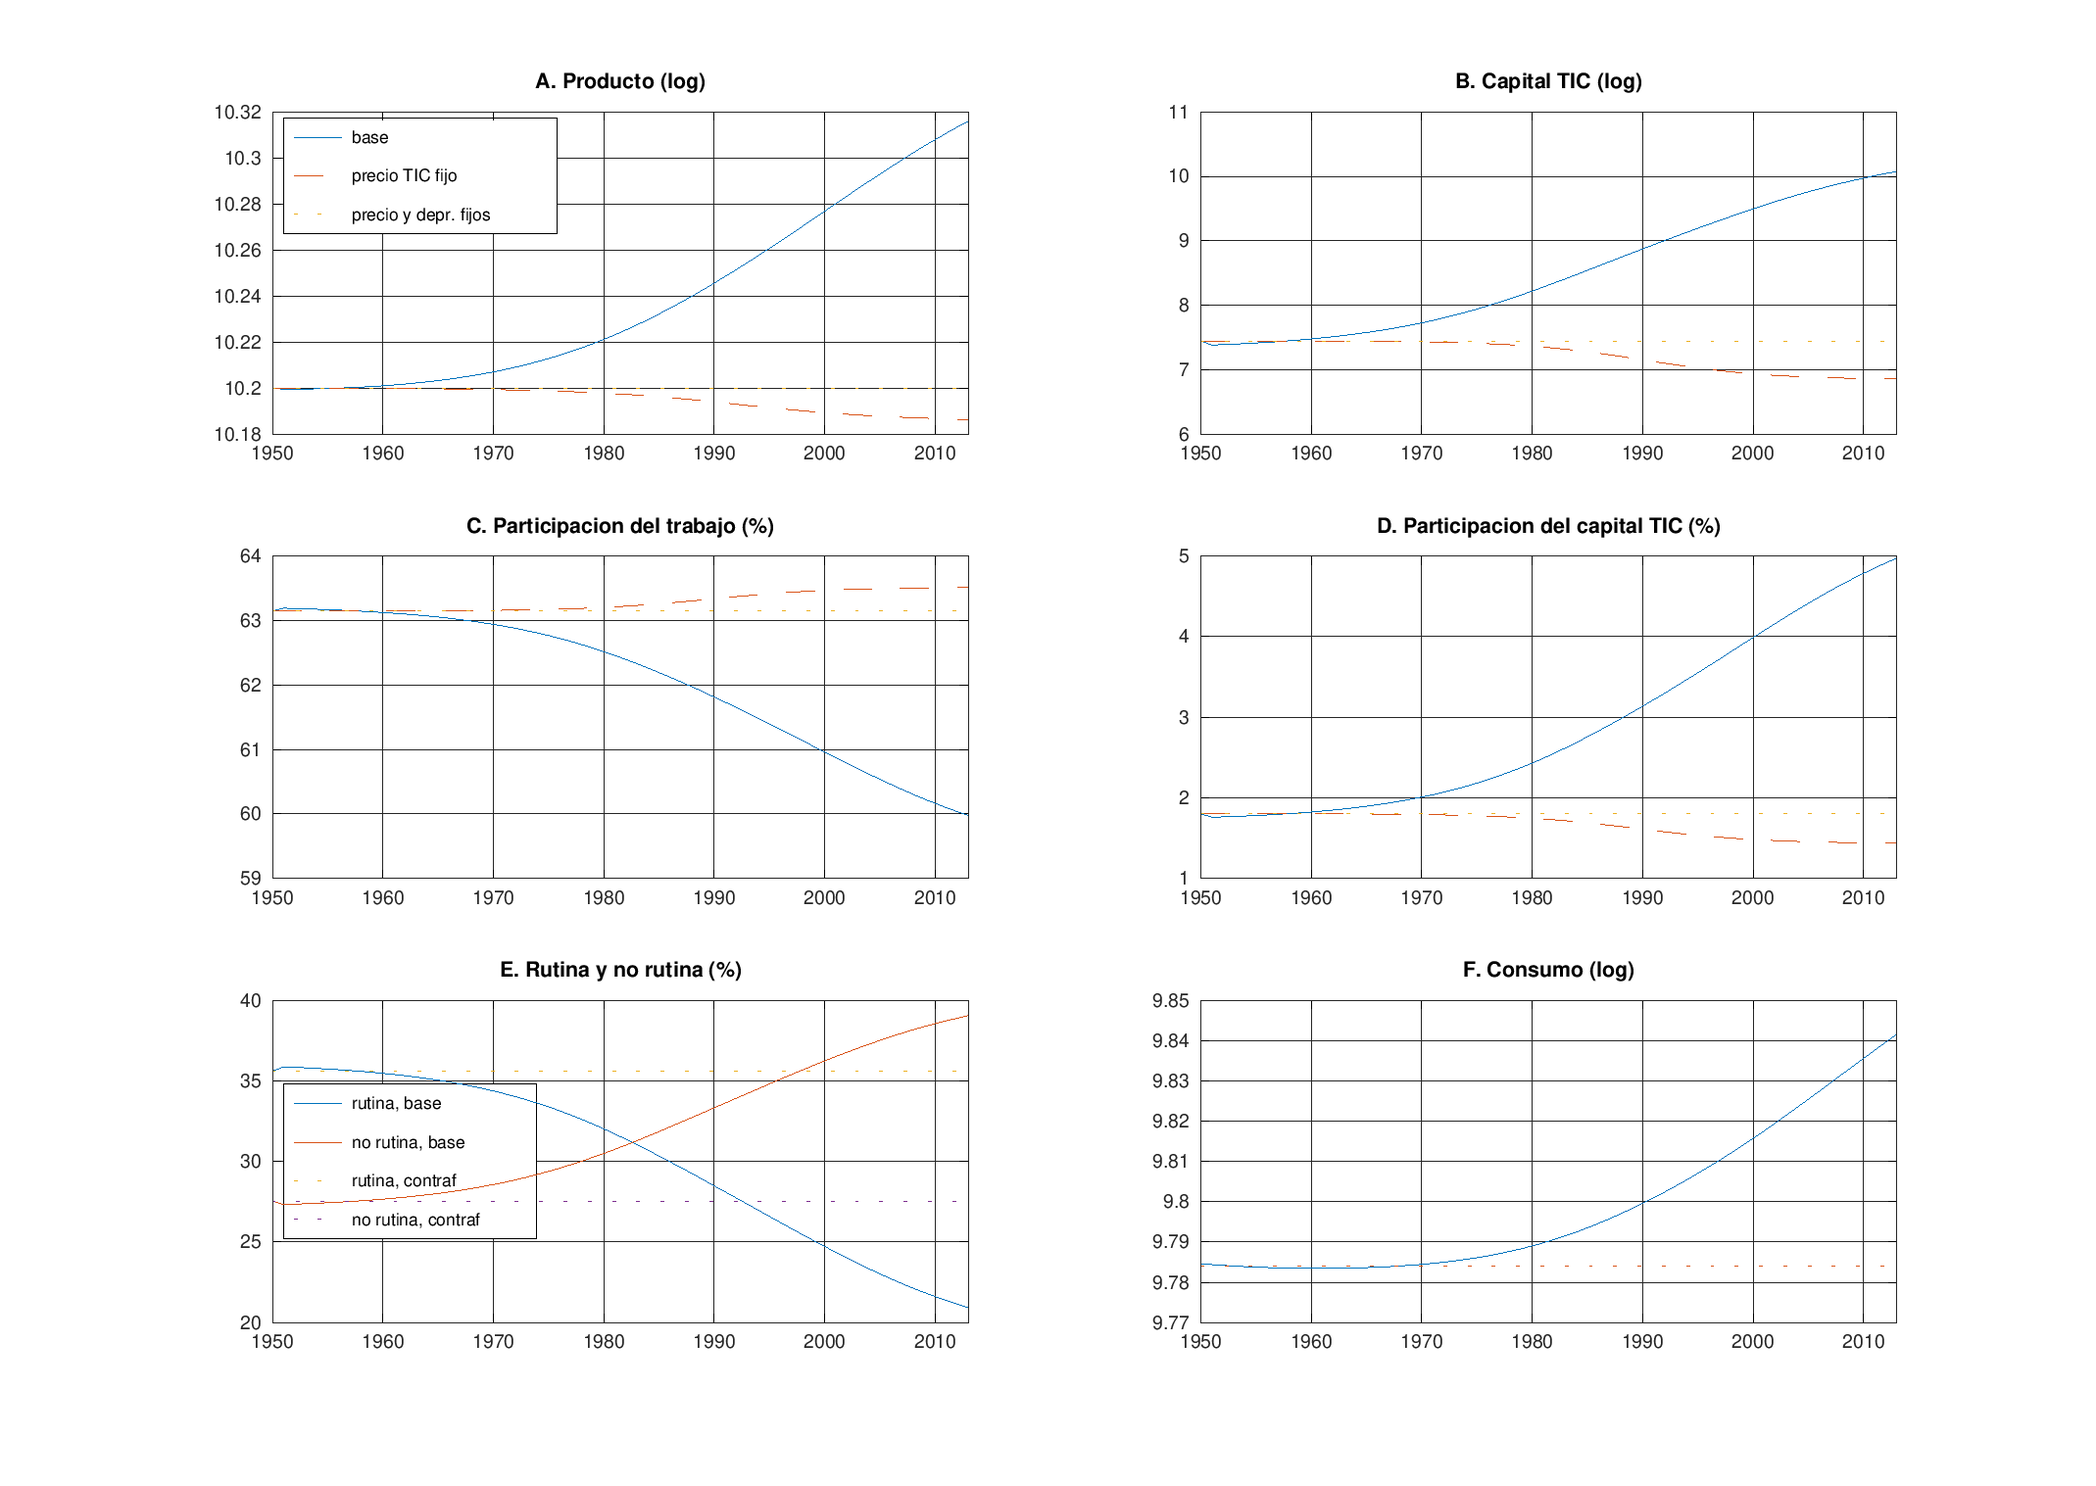
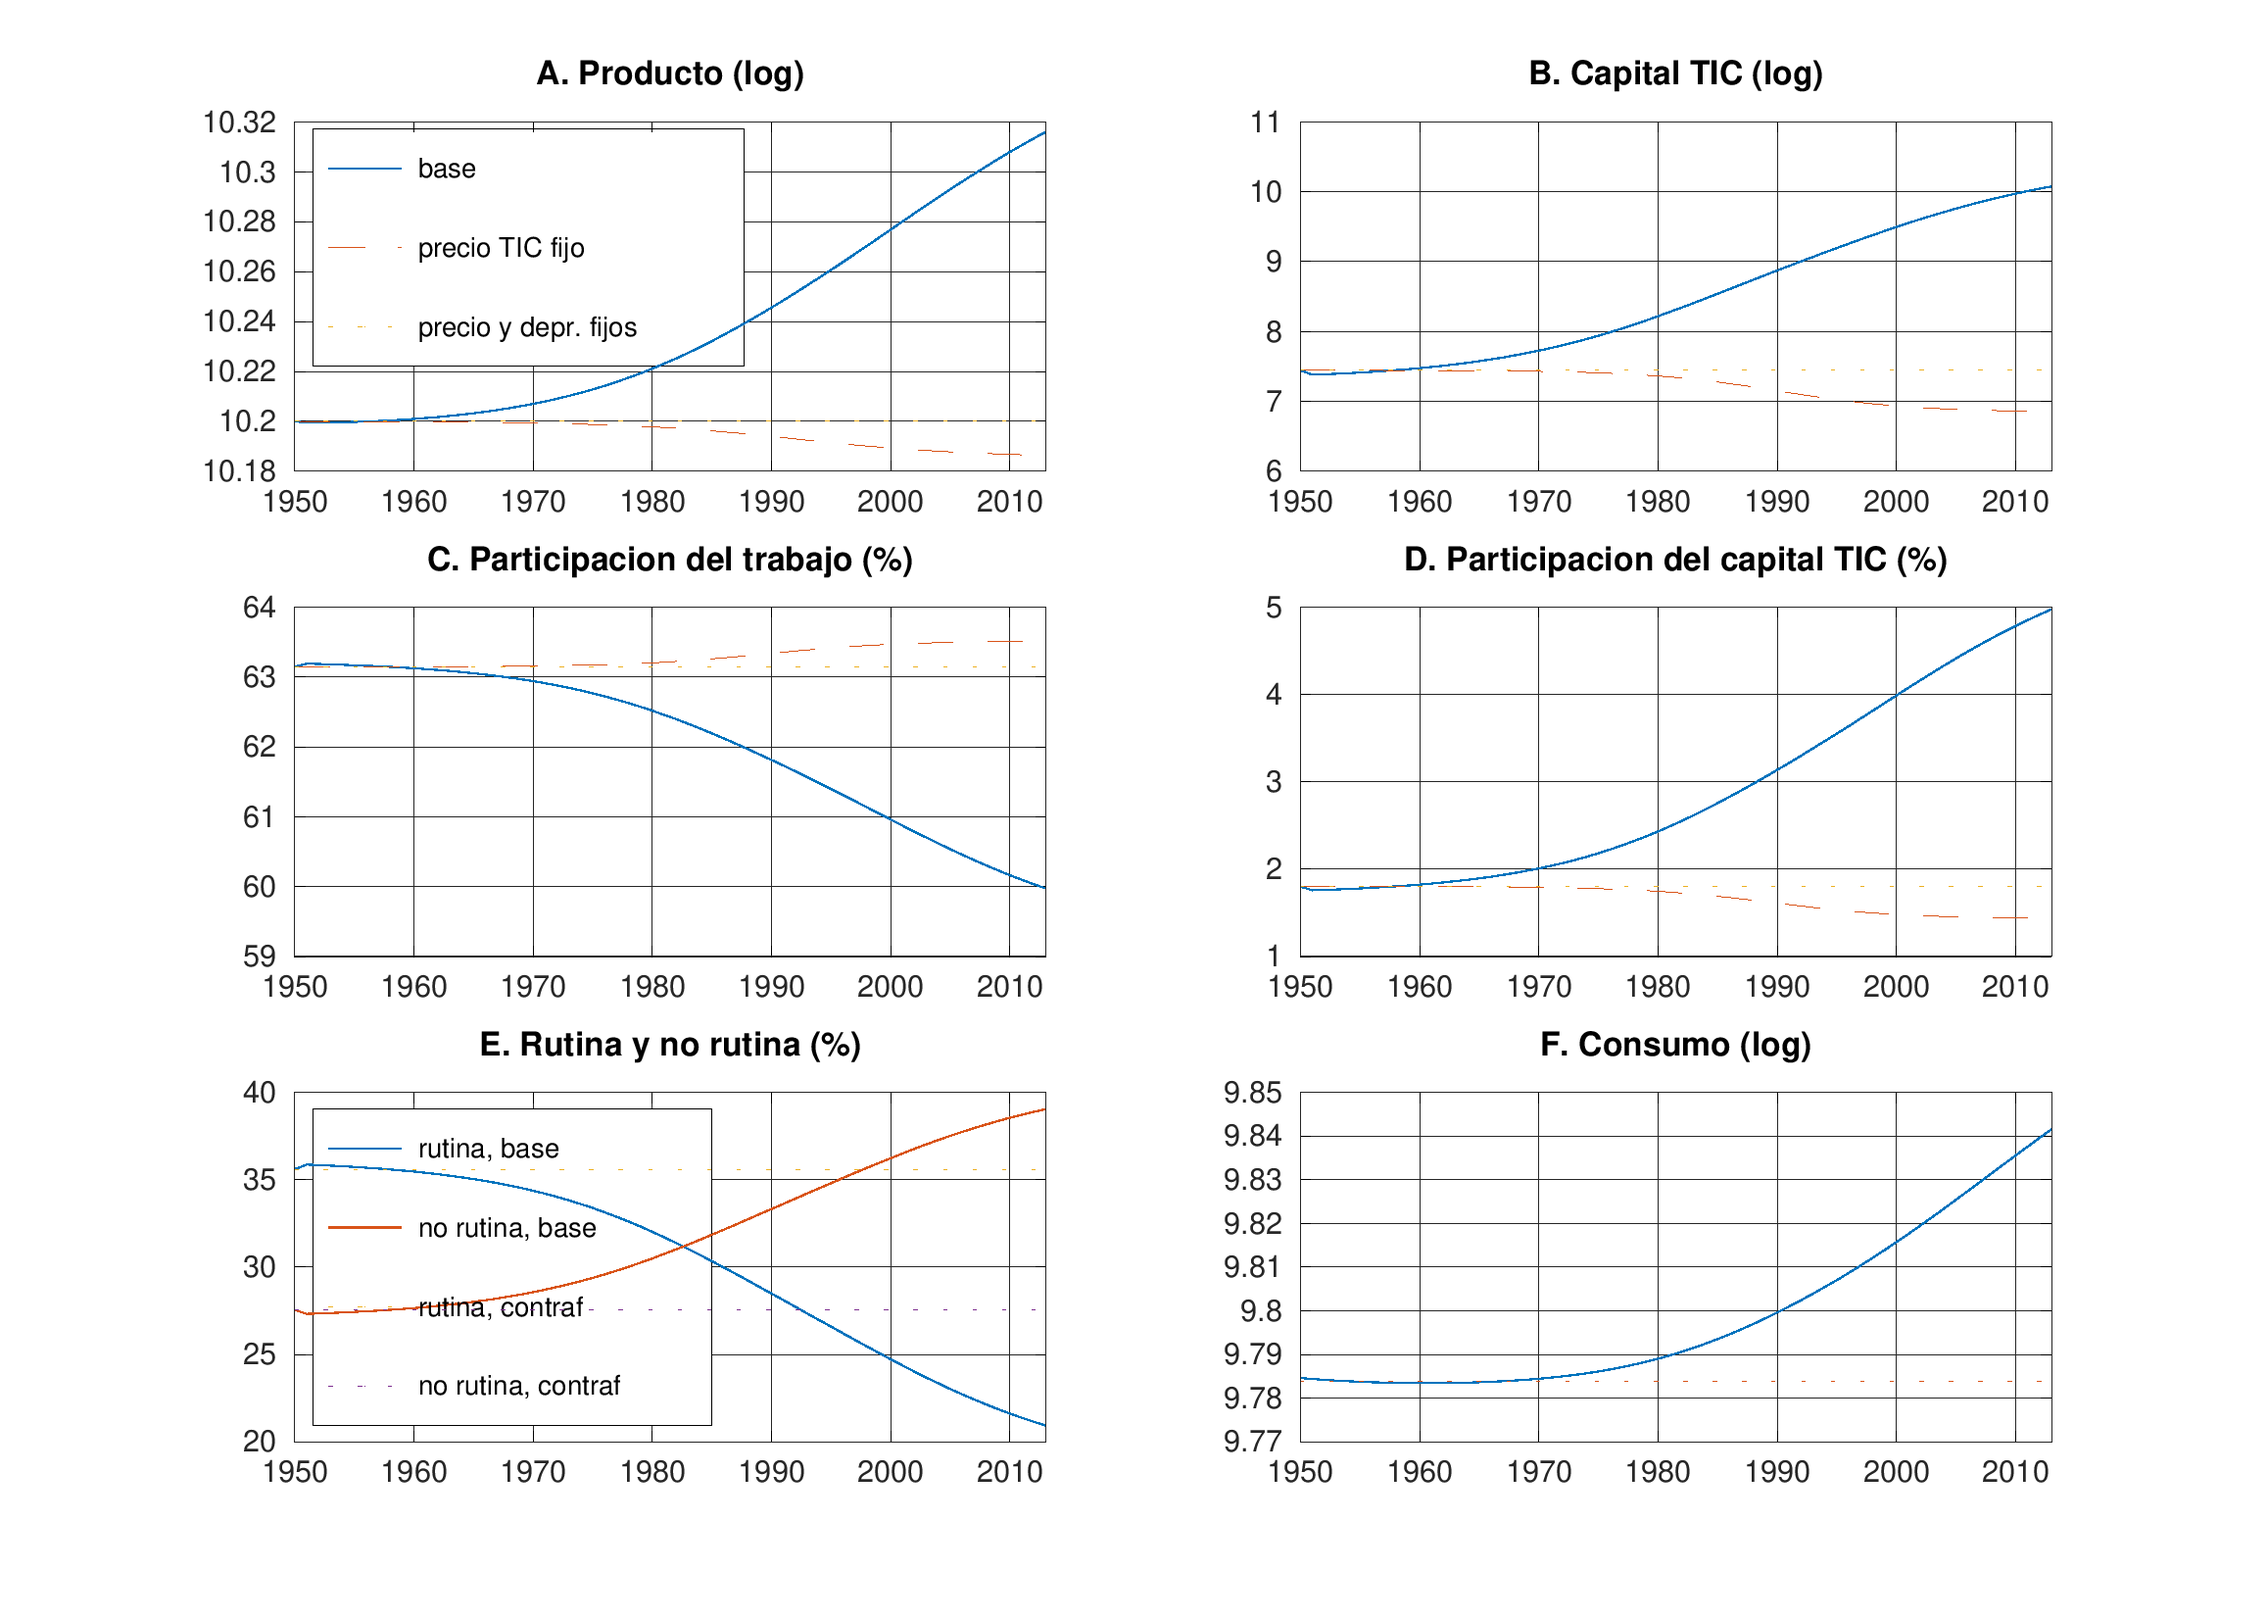
Figuras legibles al reducirlas: lienzo mas pequeno y fuentes mayores

diff --git a/src/make_figures.m b/src/make_figures.m
@@ -21,7 +21,9 @@ function make_figures(tr_base, tr_cfp, tr_cfpd, t0_years, lam, cons_gain, p, iT)
     yr = (p.year0:p.year1)';
     r  = 1:iT;
 
-    figure('position', [0 0 1100 780]);
+    f = figure('position', [0 0 980 700]);
+    set(f, 'defaultaxesfontsize', 13, 'defaulttextfontsize', 13, ...
+           'defaultaxeslinewidth', 1.0);
 
     subplot(3,2,1)
     plot(yr, log(tr_base.a.y(r)), '-', 'linewidth', 2); hold on
@@ -62,10 +64,11 @@ function make_figures(tr_base, tr_cfp, tr_cfpd, t0_years, lam, cons_gain, p, iT)
     plot(yr, log(tr_cfpd.a.c(r)), ':', 'linewidth', 1.5);
     title('F. Consumo (log)'); xlim([p.year0 p.year1]); grid on
 
-    print(fullfile('out','fig7.png'), '-dpng', '-r140');
+    print(fullfile('out','fig7.png'), '-dpng', '-r170');
     close
 
-    figure('position', [0 0 1000 380]);
+    f = figure('position', [0 0 900 360]);
+    set(f, 'defaultaxesfontsize', 13, 'defaulttextfontsize', 13);
     subplot(1,2,1)
     plot(t0_years, 100*lam, '-', 'linewidth', 2); grid on
     xlabel('ano de evaluacion t_0'); title('A. lambda: ganancia equivalente (%)');
@@ -74,6 +77,6 @@ function make_figures(tr_base, tr_cfp, tr_cfpd, t0_years, lam, cons_gain, p, iT)
     plot(yr, cons_gain, '-', 'linewidth', 2); grid on
     xlabel('ano'); title('B. 100 x (c_t/c_{1950} - 1)');
     xlim([p.year0 p.year1]);
-    print(fullfile('out','fig8.png'), '-dpng', '-r140');
+    print(fullfile('out','fig8.png'), '-dpng', '-r170');
     close
 end
